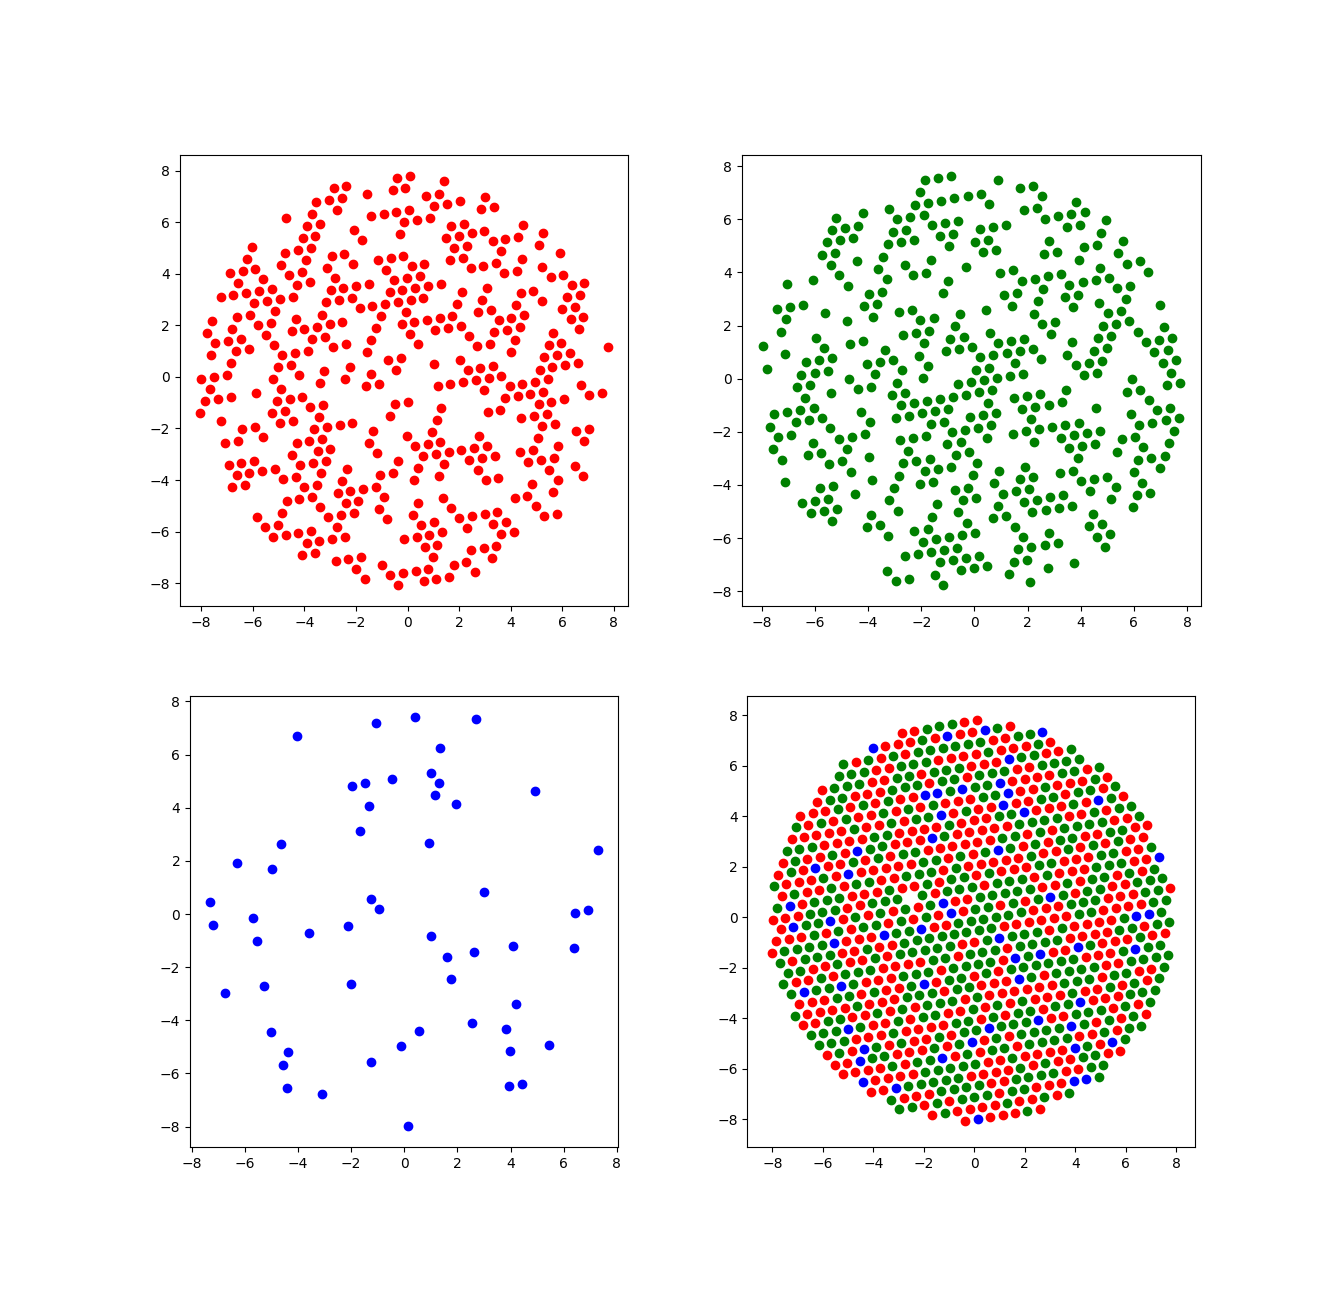
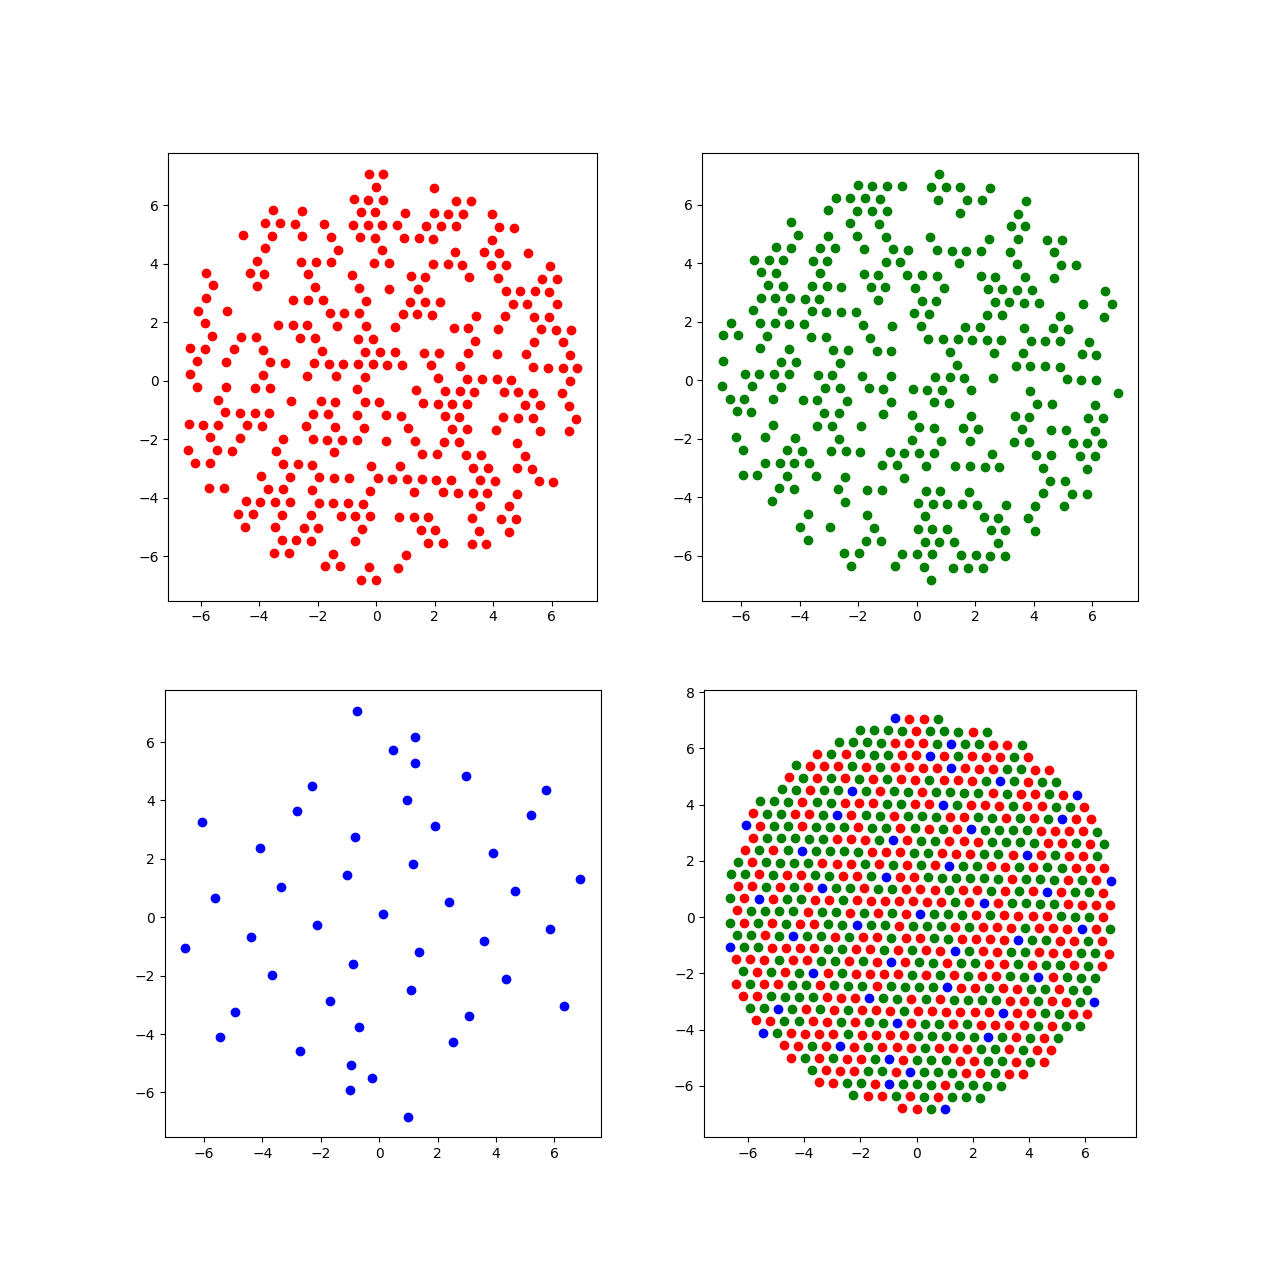
Added green-blue test

diff --git a/utils/hex_lattice.py b/utils/hex_lattice.py
@@ -69,17 +69,18 @@ if __name__ == '__main__':
     XE, YE = gen_color_lattice(0.47, 0.47, 0.06, 7.00, 0.5)
     
     # Trichromatic
-    #fig, ax = plt.subplots(2,2)
-    #ax[0,0].scatter(XE[0], YE[0], color='red')
-    #ax[0,1].scatter(XE[1], YE[1], color='green')
-    #ax[1,0].scatter(XE[2], YE[2], color='blue')
-    #ax[1,1].scatter(XE[0], YE[0], color='red')
-    #ax[1,1].scatter(XE[1], YE[1], color='green')
-    #ax[1,1].scatter(XE[2], YE[2], color='blue')
-    #ax[0,0].set_aspect('equal')
-    #ax[0,1].set_aspect('equal')
-    #ax[1,0].set_aspect('equal')
-    #ax[1,1].set_aspect('equal')
+    fig, ax = plt.subplots(2,2)
+    ax[0,0].scatter(XE[0], YE[0], color='red')
+    ax[0,1].scatter(XE[1], YE[1], color='green')
+    ax[1,0].scatter(XE[2], YE[2], color='blue')
+    ax[1,1].scatter(XE[0], YE[0], color='red')
+    ax[1,1].scatter(XE[1], YE[1], color='green')
+    ax[1,1].scatter(XE[2], YE[2], color='blue')
+    ax[0,0].set_aspect('equal')
+    ax[0,1].set_aspect('equal')
+    ax[1,0].set_aspect('equal')
+    ax[1,1].set_aspect('equal')
+    plt.show()
 
     # Deuteranope
     #fig, ax = plt.subplots(1,3)
@@ -93,10 +94,10 @@ if __name__ == '__main__':
 
     #plt.show()
 
-    plt.scatter(XE[0], YE[0], color='red')
-    plt.scatter(XE[1], YE[1], color='green')
-    plt.scatter(XE[2], YE[2], color='blue')
-    plt.axes().set_aspect('equal')
-    plt.show()
+    #plt.scatter(XE[0], YE[0], color='red')
+    #plt.scatter(XE[1], YE[1], color='green')
+    #plt.scatter(XE[2], YE[2], color='blue')
+    #plt.axes().set_aspect('equal')
+    #plt.show()
 
 #    idx = (-w < XE) * (XE < w) * (-w < YE) * (YE < w)

diff --git a/src/gauss_color.py b/src/gauss_color.py
@@ -45,6 +45,10 @@ class EMGauss(object):
             n_n = n_n[0] + n_n[1]
             xe, ye = np.concatenate(xe).ravel(), np.concatenate(ye).ravel()
             xe, ye = xe[0:n_n], ye[0:n_n]
+        elif test == 'greenblue':
+            xe, ye = np.concatenate(xe).ravel(), np.concatenate(ye).ravel()
+            xe, ye = xe[n_n[0]:sum(n_n)], ye[n_n[0]:sum(n_n)]
+            n_n = n_n[1] + n_n[2]
         elif test == 'blue':
             xe, ye, n_n = xe[2], ye[2], n_n[2]
         else:

diff --git a/src/gauss_plots.py b/src/gauss_plots.py
@@ -235,10 +235,3 @@ def get_snr_list(s_gen, estimates, xyr, xyr_est, xs, ys, ds):
     var = (0.5 * ds) ** 2
     return [snr_one_iteration(s_gen, s_est, xyr, xyr_est, xs, ys, q, var=var)
             for q, s_est in enumerate(estimates)]
-
-
-
-
-
-
-
